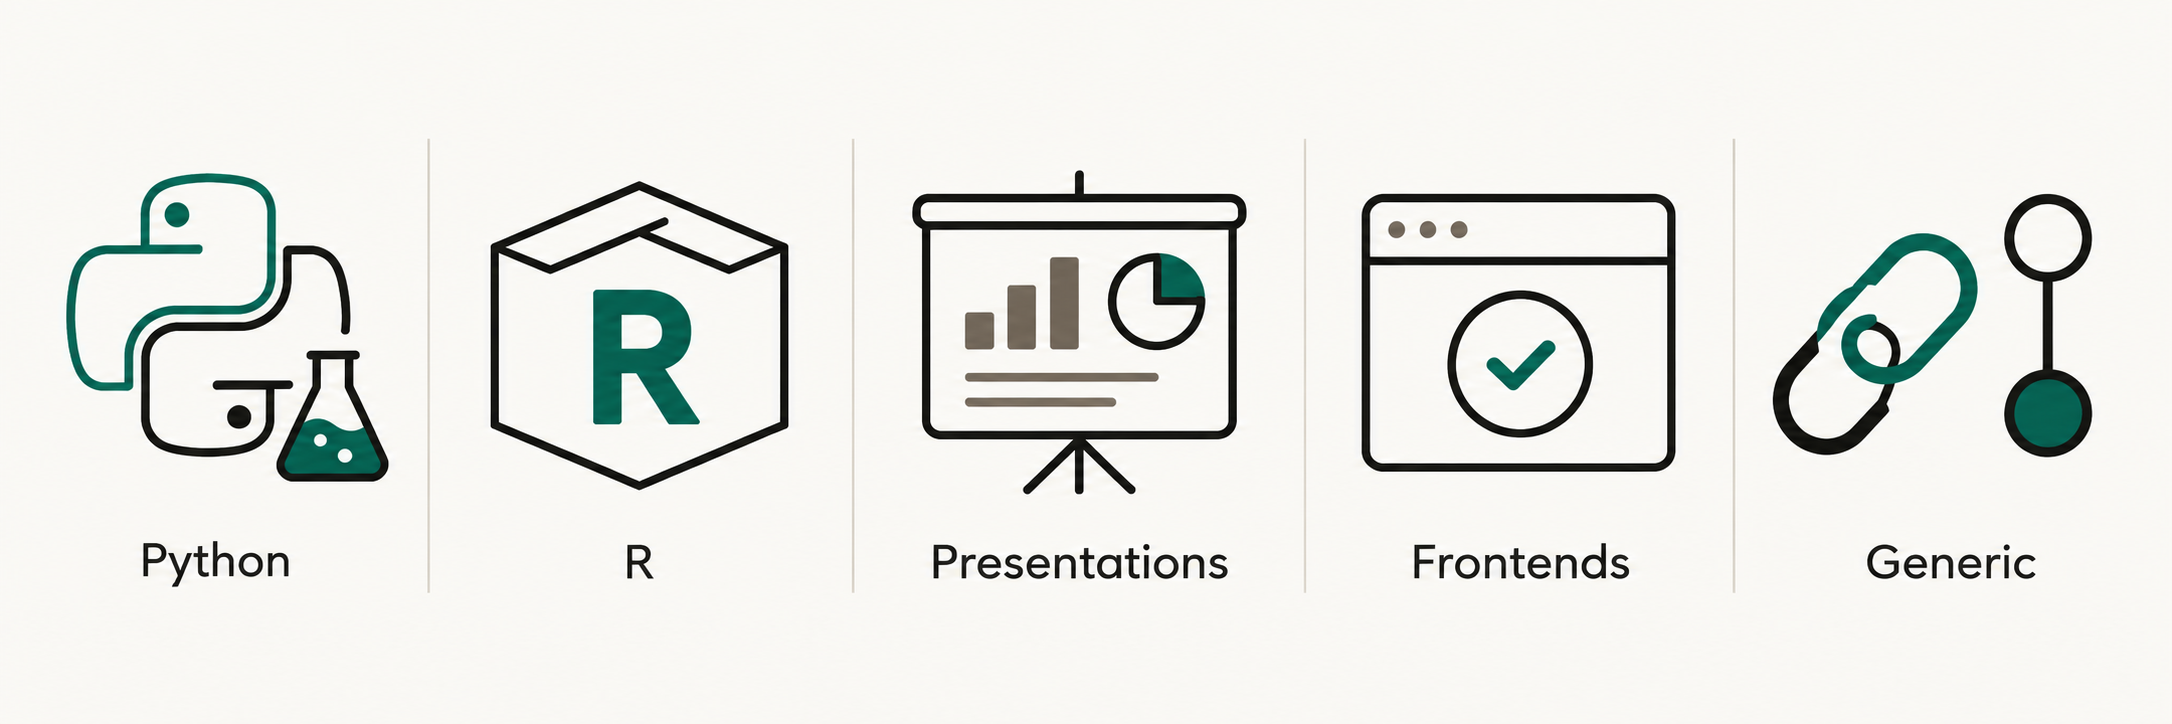
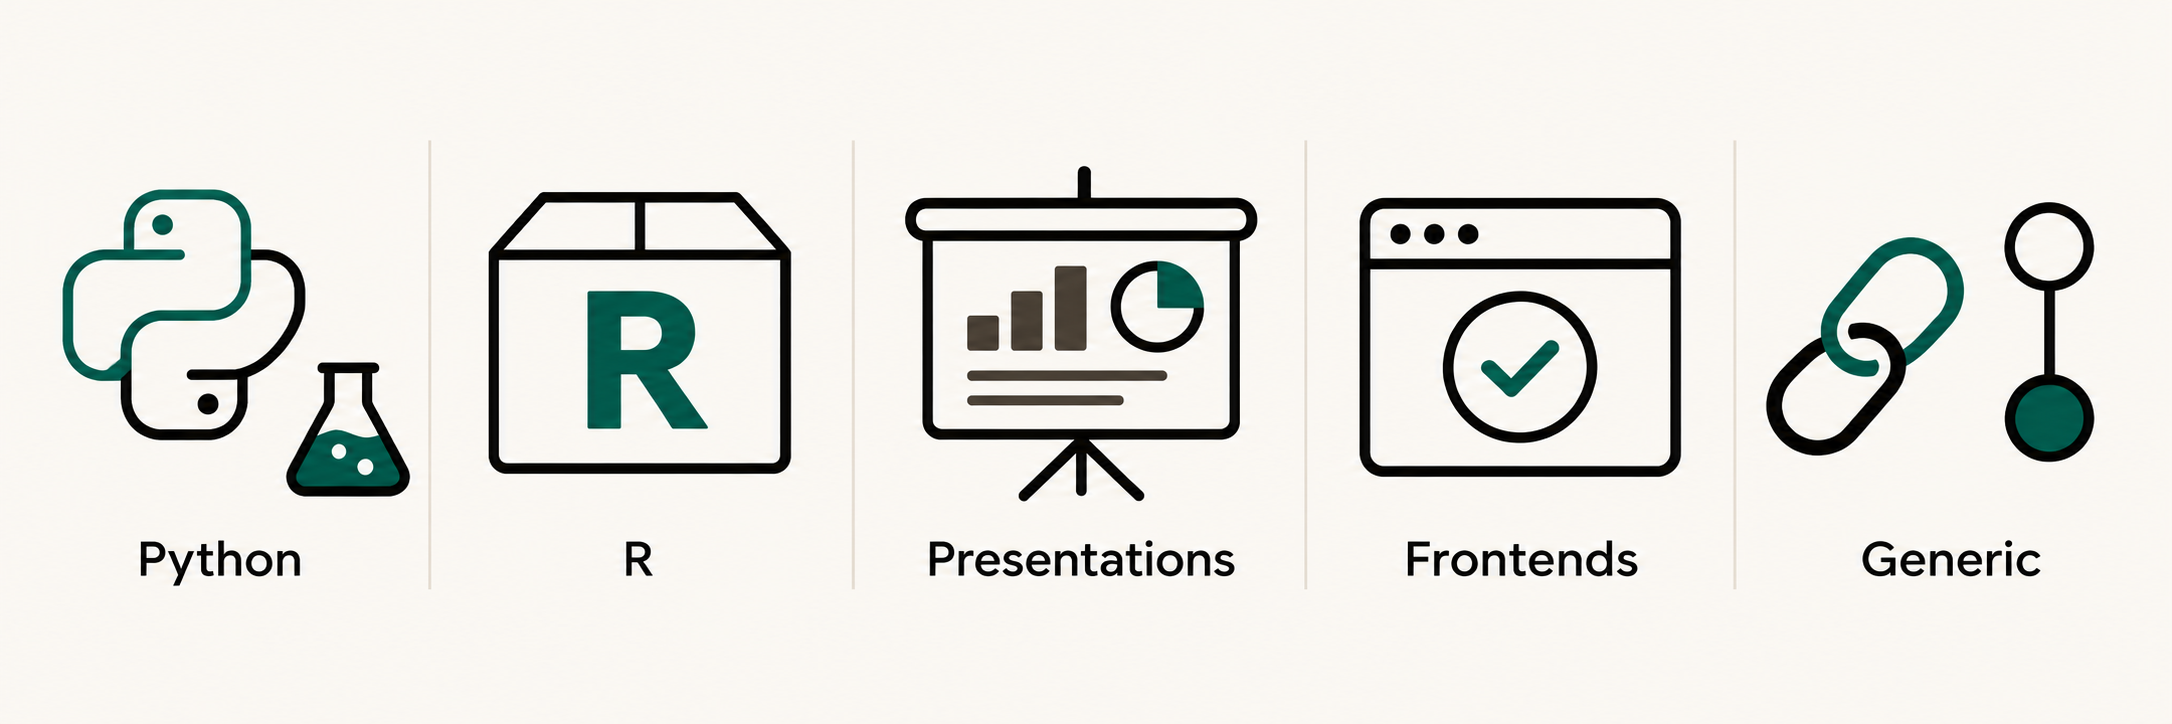
docs(readme): refine workflow family illustration (#101)
## Summary

- Refine the README workflow-family illustration with cleaner, more
coherent icon geometry.
- Update the image description and preserve the focused edit prompt
beside the asset.

## Validation

- `actionlint`
- `gitleaks git --log-opts="--all" --no-banner --redact .`
- `uvx zizmor@1.32.0 --pedantic .github/workflows/`
- `git diff --check`

No workflow trigger or workflow behavior changed.

diff --git a/README.md b/README.md
@@ -9,7 +9,7 @@ Reusable workflows for package checks, documentation, presentations and
 frontend quality gates. Callers reference `@main`; changes here reach them
 after a pull request passes this repository's security checks.
 
-![Five workflow families, left to right: Python, R, presentations, frontends and generic repository checks.](docs/figures/workflow-families.png)
+![Five workflow families, left to right: Python code with a test flask, an R package, a presentation chart, a frontend browser with a checkmark, and generic link and workflow-node checks.](docs/figures/workflow-families.png)
 
 | Family | Use it for | Workflows |
 | --- | --- | --- |
